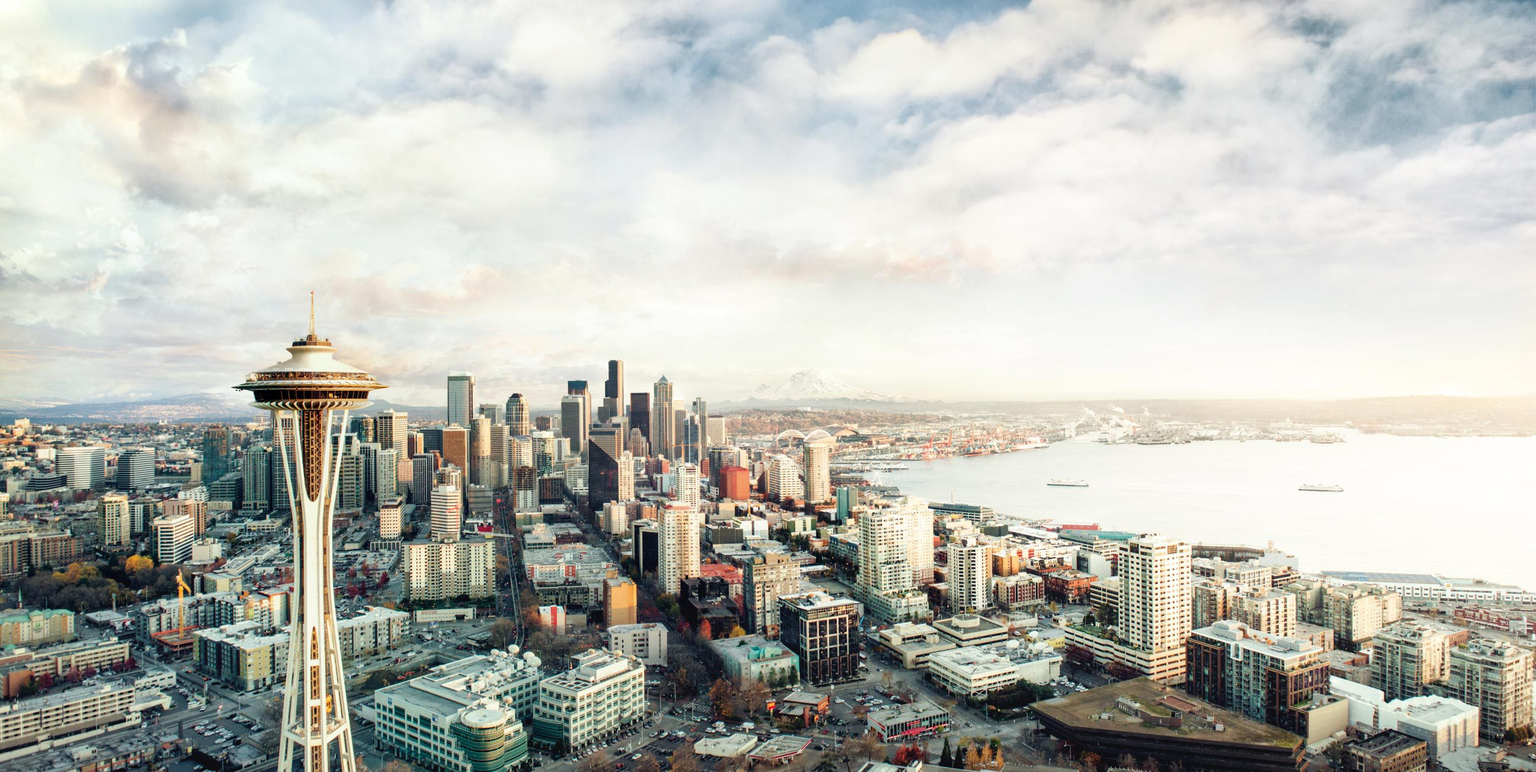
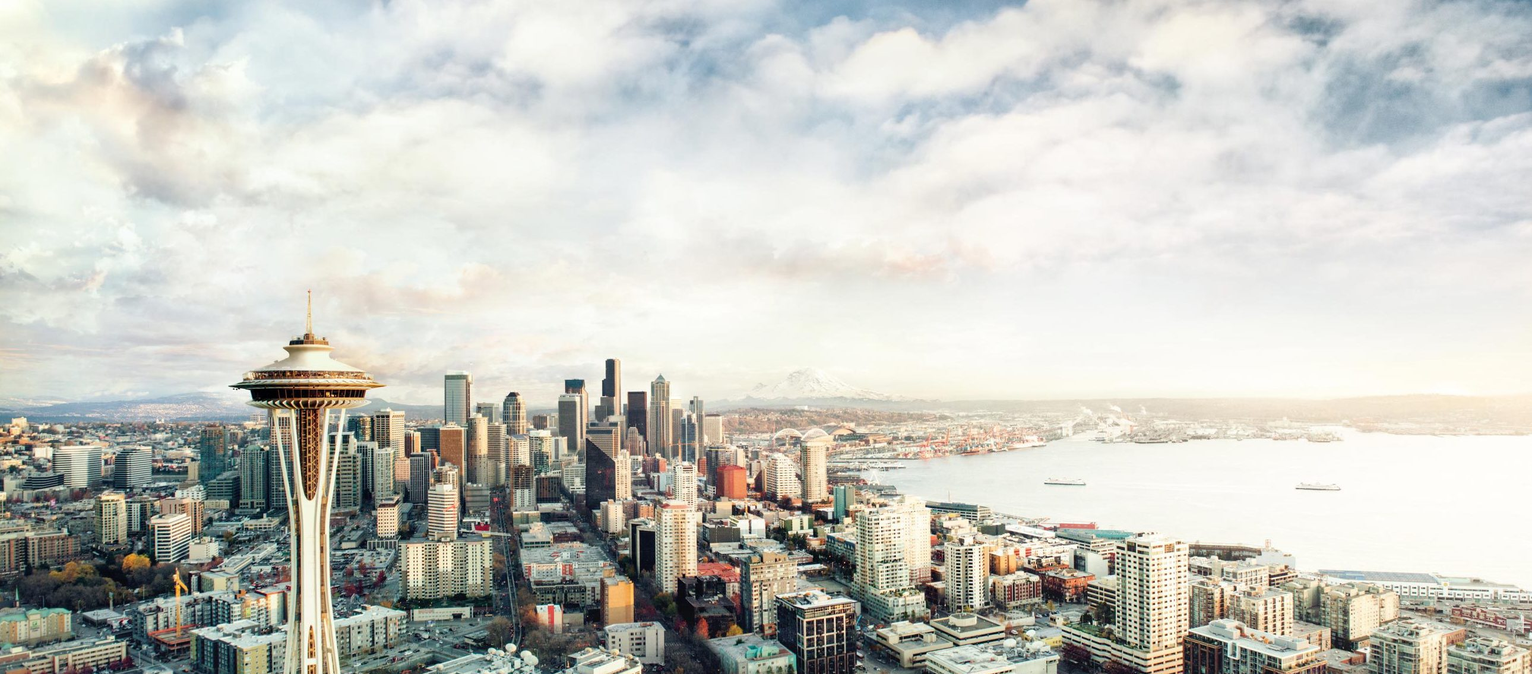
some css tweaks

diff --git a/landing/templates/landing/index.html b/landing/templates/landing/index.html
@@ -40,13 +40,13 @@
             <h1>CataLyst</h1>
             <h3>A Marketplace for Social Goods</h3>
             <br>
-			<a href="{% url 'account:login' %}" class="btn btn-dark btn-lg">Make a difference</a>
+			<a href="{% url 'account:login' %}" class="btn btn-dark btn-lg">Make a Difference</a>
         </div>
     </header>
 
     <!-- Services -->
     <!-- The circle icons use Font Awesome's stacked icon classes. For more information, visit http://fontawesome.io/examples/ -->
-    <section id="services" class="services bg-primary">
+    <section id="services" class="services">
         <div class="container">
             <div class="row text-center">
                 <div class="col-lg-12 col-lg-offset-0">
@@ -62,7 +62,7 @@
                                         <i class="fa fa-cloud fa-stack-1x text-primary"></i>
                                     </span>
                                     <p>Make impact, use your skills, explore how you can make a difference.</p>
-                                    <a href="{% url 'account:login' %}" class="btn btn-default btn-lg">Explore Jobs</a>
+                                    <a href="{% url 'account:login' %}" class="btn btn-default btn-lg">Explore Opportunities</a>
                                 </div>
                             </div>
 						</div>
@@ -76,7 +76,7 @@
                                         <i class="fa fa-cloud fa-stack-1x text-primary"></i>
                                     </span>
                                     <p>Find latents, manage volunteers, connect to people who care.</p>
-                                    <a href="{% url 'account:login' %}" class="btn btn-default btn-lg">Publish Your Jobs</a>
+                                    <a href="{% url 'account:login' %}" class="btn btn-default btn-lg">Publish Your Events</a>
                                 </div>
                             </div>
 						</div>
@@ -98,10 +98,10 @@
                     <hr class="small">
                     {% for job in jobs|slice:":4" %}
                         {% if forloop.first %}<div class="row">{% endif %}
-                        <div class="col-md-6">
+                        <div class="col-md-4">
                             <div class="portfolio-item">
                                 <a href="{% url 'dashboard:jobdetail' job.id %}?user_id=-1">
-										<img class="img-portfolio img-responsive" src="{% static 'landing/img/portfolio-' %}{{ forloop.counter }}.jpg">
+									<div class="cover-img-div"><img class="img-portfolio img-responsive" src="{% static 'landing/img/portfolio-' %}{{ forloop.counter }}.jpg"></div>
                                     <h4>{{ job.title }}</h4>
                                 </a>
                             </div>
@@ -117,16 +117,16 @@
 
     <!-- Footer -->
     <footer>
-      <section id="footer" class="bg-primary">
+      <section id="footer">
         <div class="container">
             <div class="row">
-                <div class="col-lg-12 text-center">
+                <div class="col-md-12 text-center">
                     <h4><strong>Contact Us</strong></h4>
                     <ul class="list-unstyled">
                         <li><i class="fa fa-phone fa-fw"></i> (123) 456-7890</li>
                         <li><i class="fa fa-envelope-o fa-fw"></i><a href="mailto:name@example.com">name@example.com</a></li>
                     </ul>
-                    <hr class="small">
+                    <hr>
                     <p>Copyright &copy; CataLyst 2017</p>
                 </div>
             </div>

diff --git a/landing/static/landing/css/landing.css b/landing/static/landing/css/landing.css
@@ -34,7 +34,7 @@ body {
 .btn-dark {
     border-radius: 0;
     color: #fff;
-    background-color: rgba(0,0,0,0.4);
+    background-color: rgba(0,0,0,0.6);
 }
 
 .btn-dark:hover,
@@ -155,11 +155,15 @@ hr.small {
     position: relative;
     width: 100%;
     height: 100%;
-    background: url(../img/bg.jpg) no-repeat center center scroll;
+    background: url(../img/seattle_header/4.jpeg) no-repeat center center scroll;
     -webkit-background-size: cover;
     -moz-background-size: cover;
     background-size: cover;
     -o-background-size: cover;
+}
+.header h3 {
+    color: rgba(0,0,0,0.6);
+	font-weight:bold;
 }
 
 /* About */
@@ -172,6 +176,8 @@ hr.small {
 
 .services {
     padding: 50px 0;
+	background-color: #006699;
+	color: white
 }
 
 .service-item {
@@ -240,6 +246,8 @@ hr.small {
 
 footer {
     padding: 50px 0;
+	background-color: #006699;
+	color: white
 }
 
 footer ul li a
